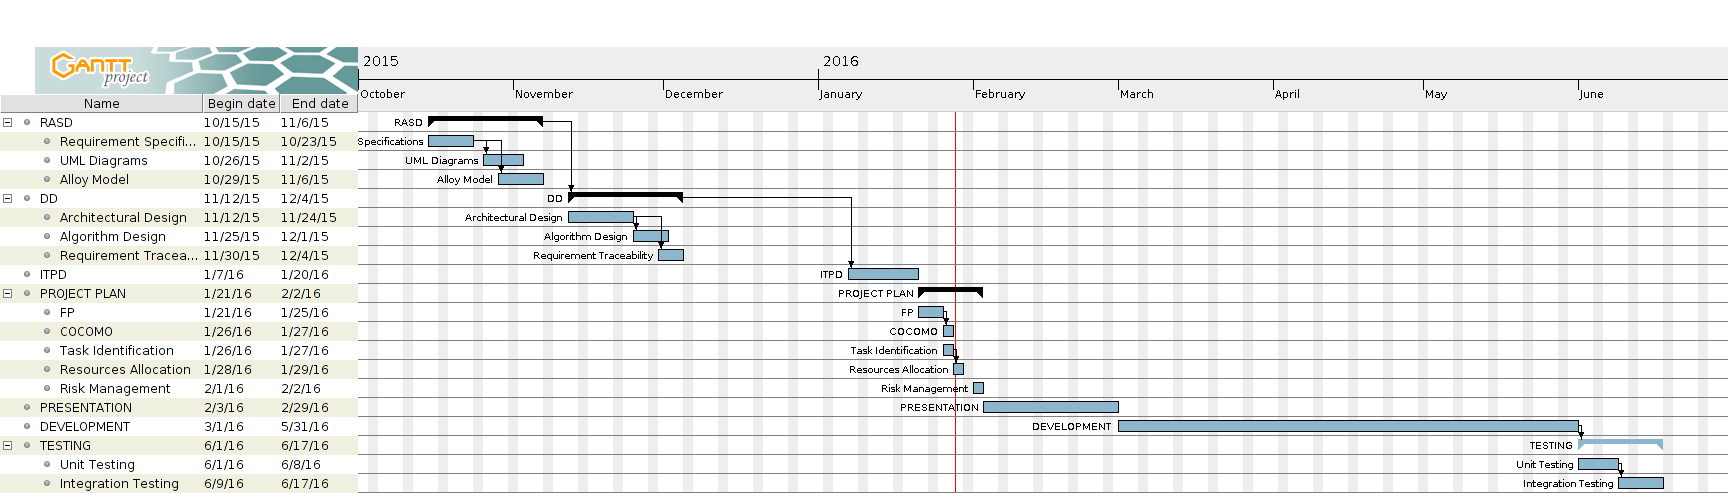
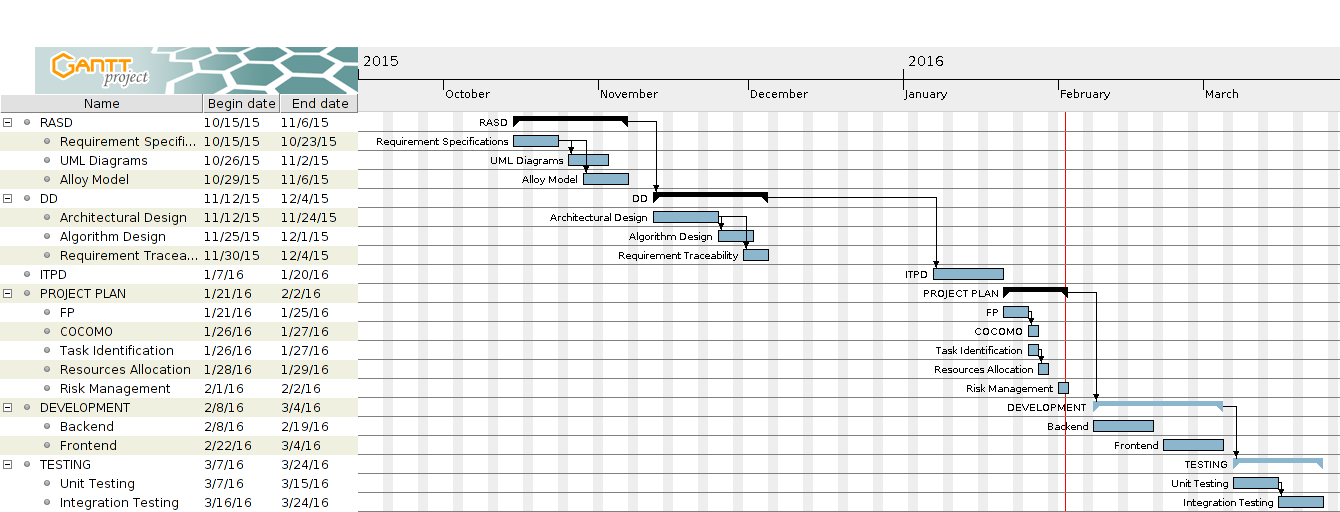
gantt fixed + resource allocation + appendix

Changed region(s): [[0.0, 0.0913, 1.0, 1.0]]

diff --git a/Work/Assignment 5 - Project Plan/Latex/Tasks/Tasks.tex b/Work/Assignment 5 - Project Plan/Latex/Tasks/Tasks.tex
@@ -4,23 +4,42 @@ The project is composed of the following tasks:
 
 \begin{table}[H]
 	\centering
-	\begin{tabular}{ r l } 
+	\begin{tabular}{ r | l } 
+		\textbf{PHASE} & \textbf{TASKS} \\ \hline
 		\textbf{RASD} & T1: Requirement Specification \\
 					  & T2: UML Diagrams \\
-			          & T3: Alloy Model \\
+			          & T3: Alloy Model \\ \hline
 		\textbf{DD} & T4: Architectural Design \\
 					& T5: Algorithm Design \\
-					& T6: Requirement Traceability \\
-		\textbf{ITPD} & T7: ITPD \\
+					& T6: Requirement Traceability \\ \hline
+		\textbf{ITPD} & T7: ITPD \\ \hline
 		\textbf{PM} & T8: FP \\
 					& T9: COCOMO \\
 					& T10: Task Identification \\
 					& T11: Resources Allocation \\
-					& T12: Risk Management \\
-		\textbf{PRESENTATION} & T13: Presentation \\
-		\textbf{DEVELOPMENT} & T14: Development \\
+					& T12: Risk Management \\ \hline
+		\textbf{DEVELOPMENT} & T13: Backend \\
+							 & T14: Frontend \\ \hline
 		\textbf{TESTING} & T15: Unit Testing \\
 						 & T16: Integration Testing
+	\end{tabular}
+\end{table}
+
+\pagebreak
+
+\section{Phase Deadline}
+Here are shown the deadlines of each phase. Please note that there are no fixed deadline for the development phase nor for the testing phase. Therefore the length of the tasks in the Gantt Diagram (\ref{gantt}) are purely symbolic.
+
+\begin{table}[H]
+	\centering
+	\begin{tabular}{ r | l } 
+		\textbf{PHASE} & \textbf{DEADLINE} \\ \hline
+		\textbf{RASD} & 06/11/2015 \\
+		\textbf{DD} & 04/12/2015 \\
+		\textbf{ITPD} & 20/01/2016 \\
+		\textbf{PM} & 02/02/2016 \\
+		\textbf{DEVELOPMENT} & // \\
+		\textbf{TESTING} & // \\
 	\end{tabular}
 \end{table}
 
@@ -29,4 +48,5 @@ The project is composed of the following tasks:
 \begin{figure}[H]
 	\centering
 	\includegraphics[angle=90,scale=0.4]{Tasks/gantt}
+	\label{gantt}
 \end{figure}

diff --git a/Work/Assignment 5 - Project Plan/Latex/Resource/Resource.tex b/Work/Assignment 5 - Project Plan/Latex/Resource/Resource.tex
@@ -1,1 +1,17 @@
 \chapter{Resource allocation}
+
+\section{Resources identification}
+The team of the project has two members with the same role. The members are:
+
+\begin{itemize}
+	\item Luca Nanni
+	\item Giacomo Servadei
+\end{itemize}
+
+\section{Allocation Diagram}
+In the following diagram is shown the allocation over time of the two resources for the tasks of the project. When the task is represented with blue, it means that the team member is completely dedicated to the task. If it is green, it means that the resource only spent the percentage of time indicated for the task. Finally, the red color means that the resource is working on two different tasks at the same time.
+
+\begin{figure}[H]
+	\centering
+	\includegraphics[angle=90,scale=0.35]{Resource/resources}
+\end{figure}

diff --git a/Work/Assignment 5 - Project Plan/Latex/Appendix.tex b/Work/Assignment 5 - Project Plan/Latex/Appendix.tex
@@ -1,0 +1,13 @@
+\chapter{Appendix}
+
+\section{Tools Used}
+\begin{itemize}
+	\item \LaTeX
+	\item GanttProject (\url{http://www.ganttproject.biz/})
+\end{itemize}
+
+\section{Working Hours}
+\begin{itemize}
+	\item Luca Nanni: 10 hours
+	\item Giacomo Servadei: 10 hours
+\end{itemize}

diff --git a/Work/Assignment 5 - Project Plan/Latex/main.tex b/Work/Assignment 5 - Project Plan/Latex/main.tex
@@ -34,6 +34,8 @@
 
 \input{Size_Cost_Effort/Size_Cost_Effort.tex}
 \input{Tasks/Tasks.tex}
-	\input{Resource/Resource.tex}
+\input{Resource/Resource.tex}
 \input{Risk/Risk.tex}
+\input{Appendix.tex}
+
 \end{document}
